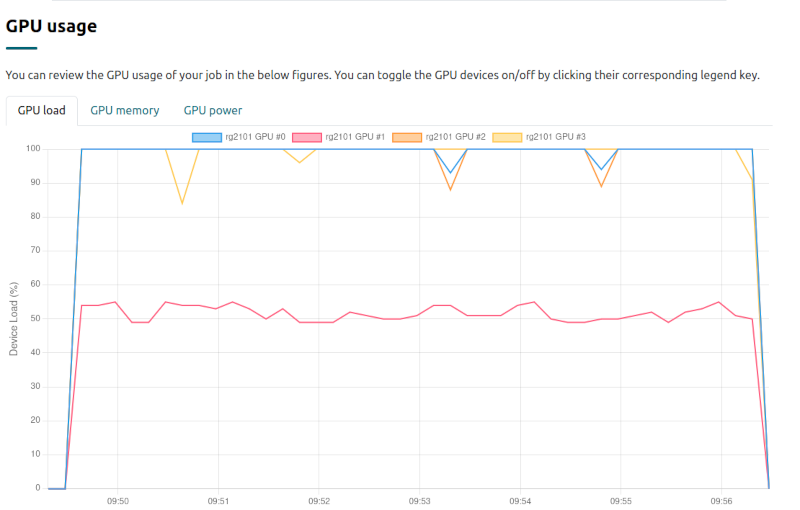
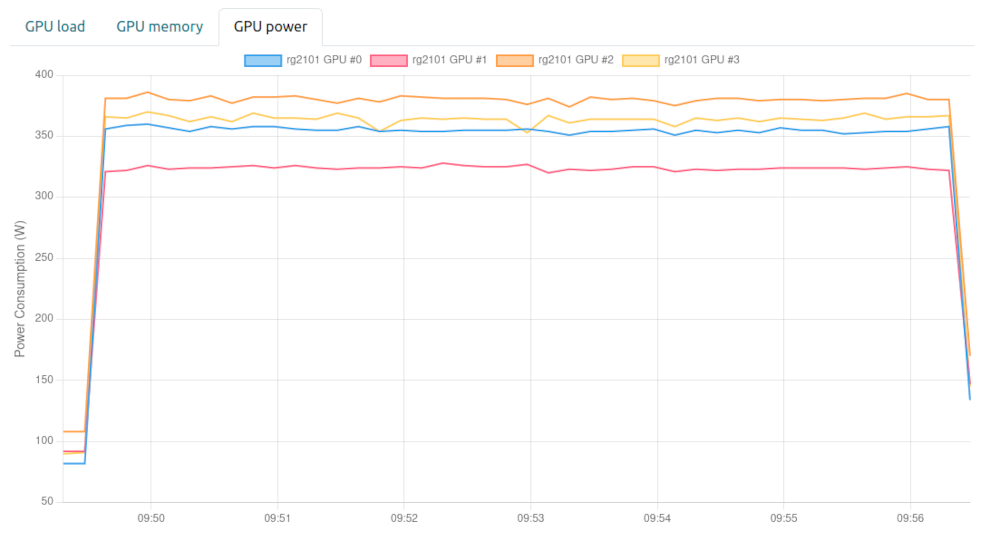
ML guide GPU util: better image, fixes in wording

diff --git a/docs/support/tutorials/gpu-ml.md b/docs/support/tutorials/gpu-ml.md
@@ -172,10 +172,10 @@ Here is an example of the output for a job using four GPUs:
 ![Job monitor showing GPU utilization for four GPUs](../../img/job-monitor-gpu4.png)
 
 
-#### `seff` command for a completed job (Roihu-GPU)
+#### `seff` command (Roihu-GPU)
 
-The easiest way to check the GPU utilization of a job on Roihu-GPU is
-to use the `seff` command:
+Another way to check the GPU utilization of a job on Roihu-GPU is to
+use the `seff` command:
 
 ```bash
 seff <job_id>
@@ -185,8 +185,6 @@ In this example we can see that the maximum utilization is 85%, but
 the average is 81.34% (this is an OK level, but not ideal):
 
 ```
-GPU job efficiency:
-------------------------------------------------------------------------
 GPU load
       Hostname        GPU Id      Mean (%)    stdDev (%)       Max (%)
         rg1101             0         81.34          8.65         85.00
@@ -337,7 +335,7 @@ provides a good indicator of the total energy usage.
 
 ### Tools for monitoring GPU energy usage
 
-#### `seff` command for a completed job (Roihu-GPU)
+#### `seff` command (Roihu-GPU)
 
 On Roihu-GPU you can use the `seff` tool:
 
